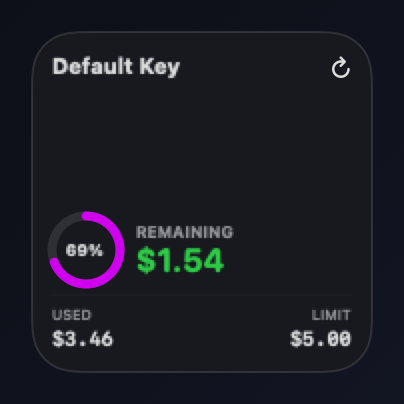
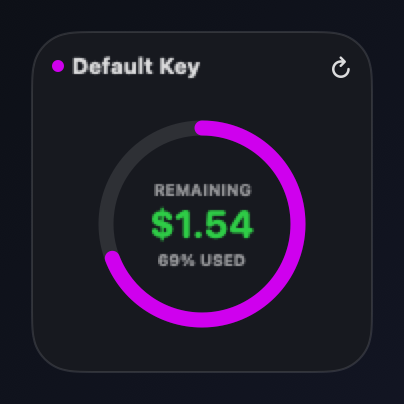
feat(widget): center prominent radial gauge and remaining amount in small widget

diff --git a/OpenRouterWidgetExtension/OpenRouterWidgetView.swift b/OpenRouterWidgetExtension/OpenRouterWidgetView.swift
@@ -20,9 +20,12 @@ struct SmallWidgetView: View {
     let payload: WidgetPayload
 
     var body: some View {
-        VStack(alignment: .leading, spacing: 5) {
+        VStack(spacing: 8) {
             // Header: Nickname + Refresh Button
             HStack(spacing: 4) {
+                Circle()
+                    .fill(Color.purple)
+                    .frame(width: 6, height: 6)
                 Text(payload.customNickname)
                     .font(.system(size: 11, weight: .bold))
                     .lineLimit(1)
@@ -43,83 +46,56 @@ struct SmallWidgetView: View {
                     .lineLimit(3)
                 Spacer()
             } else {
-                Spacer(minLength: 2)
+                Spacer(minLength: 0)
 
                 if let limit = payload.keyLimit, limit > 0 {
-                    // Gauge & Remaining Block
-                    HStack(spacing: 8) {
-                        // Circular Ring Gauge
-                        ZStack {
-                            Circle()
-                                .stroke(Color.secondary.opacity(0.18), lineWidth: 4.5)
-                            Circle()
-                                .trim(from: 0, to: CGFloat(payload.usagePercent))
-                                .stroke(
-                                    payload.usagePercent > 0.9 ? Color.red : (payload.usagePercent > 0.75 ? Color.orange : Color.purple),
-                                    style: StrokeStyle(lineWidth: 4.5, lineCap: .round)
-                                )
-                                .rotationEffect(.degrees(-90))
-                            Text("\(Int(payload.usagePercent * 100))%")
-                                .font(.system(size: 8, weight: .bold, design: .rounded))
-                        }
-                        .frame(width: 34, height: 34)
+                    // Prominent Center Radial Ring Gauge
+                    ZStack {
+                        Circle()
+                            .stroke(Color.secondary.opacity(0.18), lineWidth: 7.5)
+                        Circle()
+                            .trim(from: 0, to: CGFloat(payload.usagePercent))
+                            .stroke(
+                                payload.usagePercent > 0.9 ? Color.red : (payload.usagePercent > 0.75 ? Color.orange : Color.purple),
+                                style: StrokeStyle(lineWidth: 7.5, lineCap: .round)
+                            )
+                            .rotationEffect(.degrees(-90))
 
-                        VStack(alignment: .leading, spacing: 0) {
+                        VStack(spacing: 1) {
                             Text("REMAINING")
                                 .font(.system(size: 8, weight: .bold))
                                 .foregroundStyle(.secondary)
                             Text(String(format: "$%.2f", payload.keyRemaining ?? 0.0))
-                                .font(.system(size: 16, weight: .bold, design: .rounded))
+                                .font(.system(size: 19, weight: .bold, design: .rounded))
                                 .foregroundStyle(.green)
                                 .lineLimit(1)
                                 .minimumScaleFactor(0.7)
+                            Text("\(Int(payload.usagePercent * 100))% USED")
+                                .font(.system(size: 8, weight: .bold, design: .rounded))
+                                .foregroundStyle(payload.usagePercent > 0.9 ? .red : (payload.usagePercent > 0.75 ? .orange : .secondary))
                         }
                     }
-
-
-
-                    Divider().opacity(0.25)
-
-                    // Bottom Stats Grid
-                    HStack {
-                        VStack(alignment: .leading, spacing: 1) {
-                            Text("USED")
-                                .font(.system(size: 7, weight: .medium))
-                                .foregroundStyle(.secondary)
-                            Text(String(format: "$%.2f", payload.keyUsage))
-                                .font(.system(size: 10, weight: .semibold, design: .monospaced))
-                                .lineLimit(1)
-                                .minimumScaleFactor(0.75)
-                        }
-                        Spacer(minLength: 4)
-                        VStack(alignment: .trailing, spacing: 1) {
-                            Text("LIMIT")
-                                .font(.system(size: 7, weight: .medium))
-                                .foregroundStyle(.secondary)
-                            Text(String(format: "$%.2f", limit))
-                                .font(.system(size: 10, weight: .semibold, design: .monospaced))
-                                .lineLimit(1)
-                                .minimumScaleFactor(0.75)
-                        }
-                    }
+                    .frame(width: 96, height: 96)
                 } else {
                     // Unlimited Spend View
-                    VStack(alignment: .leading, spacing: 2) {
+                    VStack(spacing: 4) {
+                        Image(systemName: "infinity.circle.fill")
+                            .font(.system(size: 28))
+                            .foregroundStyle(.purple)
                         Text("KEY SPEND")
                             .font(.system(size: 8, weight: .bold))
                             .foregroundStyle(.secondary)
                         Text(String(format: "$%.4f", payload.keyUsage))
-                            .font(.system(size: 17, weight: .bold, design: .rounded))
+                            .font(.system(size: 18, weight: .bold, design: .rounded))
                             .lineLimit(1)
                             .minimumScaleFactor(0.75)
+                        Text("Unlimited")
+                            .font(.system(size: 8))
+                            .foregroundStyle(.secondary)
                     }
-
-                    Divider().opacity(0.25)
-
-                    Text("No limit set (Unlimited)")
-                        .font(.system(size: 8))
-                        .foregroundStyle(.secondary)
                 }
+
+                Spacer(minLength: 0)
             }
         }
         .padding(10)
